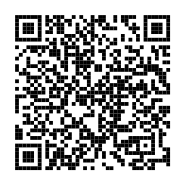
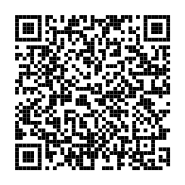
qr

Changed region(s): [[0.0811, 0.0811, 0.9189, 0.9189], [0.7027, 0.2162, 0.7568, 0.2703], [0.5676, 0.2162, 0.5946, 0.2703]]

diff --git a/project/src/main.py b/project/src/main.py
@@ -6,6 +6,7 @@ from SARForm import *
 from information import *
 import accounts as usr
 from EmailAuthentication import *
+from GoogleAuthentication import *
 
 userObject: usr.Account
 ####################################################
@@ -207,7 +208,7 @@ def writeArticles(articleDir):
 
 
   
-def openHome():
+def openHome(userObject):
 
     animalProfiles.hide()
     articles.hide()
@@ -602,7 +603,7 @@ def homepage():
     loginPg.hide()
     # call info hub 
     def callHub():
-        openHome()
+        openHome(userObject)
 
     def callArticles():
         openArticles()
@@ -787,7 +788,7 @@ def profilesPage(homePg):
 
         # bio text box
         bio = Text(chngeDetBox, text = "Enter your bio", align = "top")
-        bioTB = TextBox(chngeDetBox, width = "40", align = "top")        
+        bioTB = TextBox(chngeDetBox, width = "40", align = "top")
 
         # creates a blank gap 
         placeHolder1 = Text(chngeDetBox)
@@ -822,6 +823,11 @@ def profilesPage(homePg):
                 pHText.destroy()
                 returnBtn.destroy()
                 
+                qrPic.destroy()
+                message3.destroy()
+                codeEnter.destroy()
+                submit.destroy()
+                
                 newDetWin.hide()
 
             def emailVal():
@@ -841,7 +847,8 @@ def profilesPage(homePg):
                 except:
                     pass
 
-            #def NewPassword():
+            def callQR():
+                print("")
                 
             emailBox = Box(newDetWin, width = "fill", align = "top")
             emailBox.bg = "black"
@@ -855,13 +862,14 @@ def profilesPage(homePg):
             newPass = passwordVal()
             message2 = Text(passwordBox, text = newPass, color = "white")
 
-
-            #message3 = Text(newDetWin, text = "Verify email.")
-            #confirmVerify = PushButton(newDetWin, text="Verify?", command=callEmailAuthentication)
-            #codeEnter = TextBox(newDetWin)
-            #submit = PushButton(newDetWin, text = "submit", command=checkCode, args=[codeEnter.value])
-
+            userAccountGeneration("limbim2")
             
+            #display qr
+            qrPic = Picture(newDetWin,image = "output.png")
+
+            message3 = Text(newDetWin, text = "Submit Authenticator code.")
+            codeEnter = TextBox(newDetWin, width = "40", align = "top")
+            submit = PushButton(newDetWin, text = "submit", command=callQR)
 
             returnBtn = PushButton(newDetWin, text="Return", align="top", command=deleteDet)
 

diff --git a/project/src/GoogleAuthentication.py b/project/src/GoogleAuthentication.py
@@ -21,7 +21,7 @@ def userAccountGeneration(accountName):
         qrCodeImage = qrcode.make(pyotp.totp.TOTP(RNGSecretGeneration).provisioning_uri(name=accountName, issuer_name="Komodo Hub"), image_factory=qrcode.image.svg.SvgImage)
         with open('qrcode.svg', 'wb') as qr:
             qrCodeImage.save(qr)
-        cairosvg.svg2png(url="qrcode.svg", write_to=rootDir+r"\data\output.png")
+        cairosvg.svg2png(url="qrcode.svg", write_to=rootDir+r"\src\output.png")
     else:
         print("Secret is already generated")
 def userAccountCheck(accountName):
@@ -35,5 +35,5 @@ def userAccountCheck(accountName):
         else:
             print("Code is not accepted, please try again\n")
 
-userAccountGeneration("EricProf582874") # Test value
+#userAccountGeneration("EricProf582874") # Test value
 #userAccountCheck("JimmCric582874") # Test value
